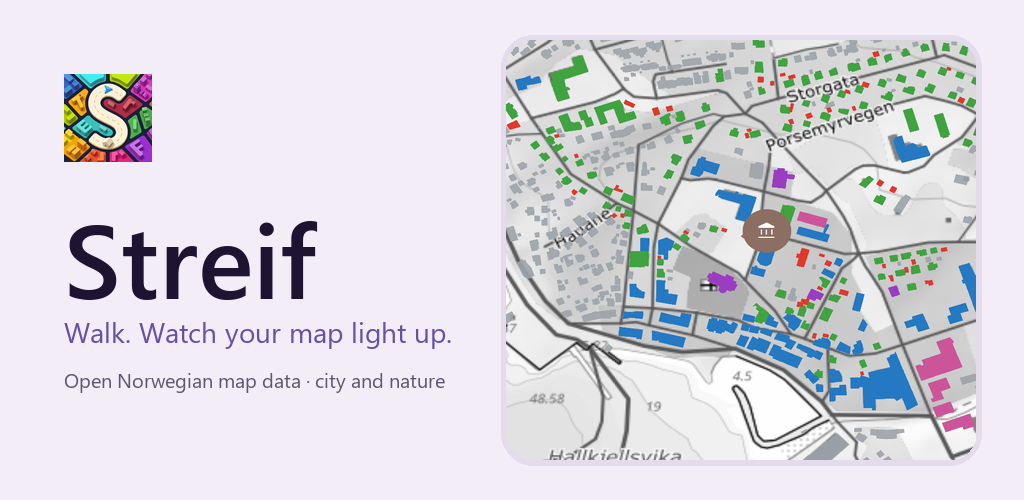
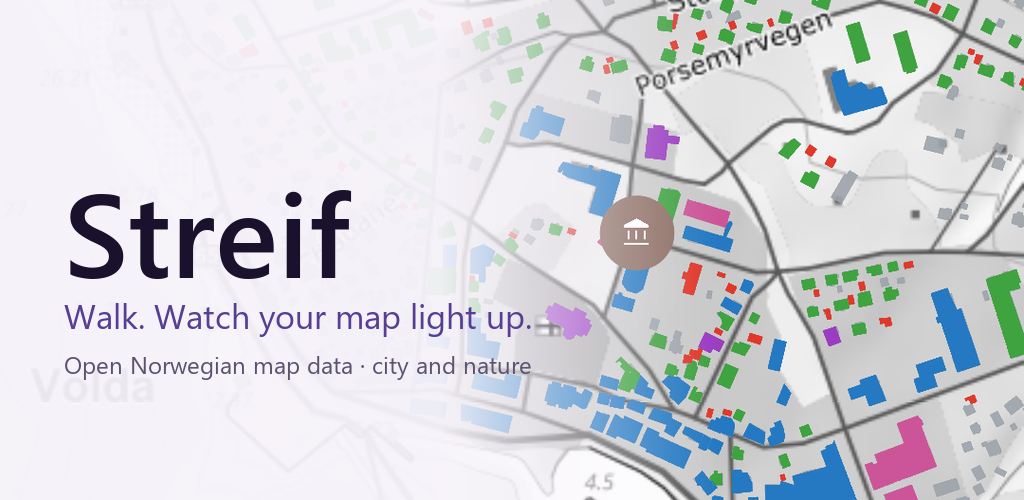
docs: feature graphic — мапа на весь кадр; сценарій відео більше не радить стерти дані
Графіка (варіант Дениса): мапа full-bleed, іконку прибрано. Смуга кадру
обирається СКАНУВАННЯМ знімка на насичені пікселі, а не на око — інакше легко
взяти красиву, але сіру ділянку, тобто показати рівно те, чого застосунок не
робить. Скрим переписано з рівного градієнта на плато+згасання: рівний давав під
текстом ~25/255, і рядки губились на деталях мапи.

⚠ play-fgs-declaration §3 радив перед зйомкою зробити «Clear storage». Сьогодні
це знищило б 494 розкриття — на телефоні тепер бойовий прогрес, перенесений при
зміні applicationId. Порада знята. Натомість: знімати там, де ще не гуляв —
ефект «до/після» потрібен локальний, і він безкоштовно є будь-де поза Volda
(в Ulsteinvik розкрито рівно один будинок проти 454 у Volda).

Заразом знято пораду «знімати на release»: release підписаний іншим ключем, тож
install -r не пройде, а перевстановлення стирає теку. У кадрі debug нічим не
відрізняється — усі dev-секції живуть усередині Settings, куди за сценарієм
заходити не треба. Стали в пригоді й стали неправдиві посилання на рядки коду
(MapController.kt:964 тощо) прибрано.

diff --git a/docs/play-fgs-declaration.md b/docs/play-fgs-declaration.md
@@ -137,11 +137,18 @@ No lighter-weight alternative is sufficient:
 
 - **Крок 5 — не імітувати.** Потрібна справжня прогулянка, бо саме зміна карти доводить, навіщо FGS.
   Знімати вдень, щоб на екрані було видно різницю сірий→колір.
-- **Перед зйомкою скинути стан**, інакше будинки навколо вже розкриті й «до/після» не видно:
-  Settings → Apps → Streif → Storage → *Clear storage*. (Потім доведеться заново дати дозвіл — це навіть
-  плюс, крок 2 вийде природним.)
-- **Знімати на release-збірці або принаймні без debug-оверлеїв** — ✓/✗-мітки й перемикач мов у debug
-  (`MapController.kt:964`, `WalkScreen.kt:144`) виглядають як «недороблений застосунок».
+- ⚠ **НЕ «Clear storage»** (тут раніше стояла саме ця порада — знято 2026-07-29). На телефоні тепер
+  лежить **бойовий прогрес** — 494 розкриття, перенесені при зміні `applicationId` (§B.0). Стирання
+  сховища знищить його; копії є, але платити ними за відео немає причини.
+  **Натомість — знімати там, де ще не гуляв.** Ефект «до/після» потрібен саме локальний, і він
+  безкоштовно є в будь-якому новому кварталі: у Volda розкрито 454 будинки, а, наприклад, в
+  Ulsteinvik — **один**. Тобто досить від'їхати/відійти в незнайому частину, і навколо буде рівно
+  той сірий фон, який потрібен кроку 5.
+- **Знімати на debug-збірці, але не відкривати Settings.** Перехід на release виглядає правильніше,
+  але коштує даних: release підписаний ІНШИМ ключем, тож `adb install -r` не пройде, а перевстановлення
+  = стерта тека застосунку. У самому кадрі (мапа · «Start tur» · нотифікація · «Stopp») debug нічим не
+  відрізняється — усі dev-секції (набір іконок, мова, режим оцінювання) живуть **усередині Settings**,
+  куди за сценарієм заходити не треба.
 - **Без музики й без монтажних склейок.** Рецензент перевіряє достовірність; безперервний дубль читається
   краще за красивий кліп.
 - Субтитри достатньо накласти текстом; **озвучка не обов'язкова**. Якщо озвучуєш — англійською.
